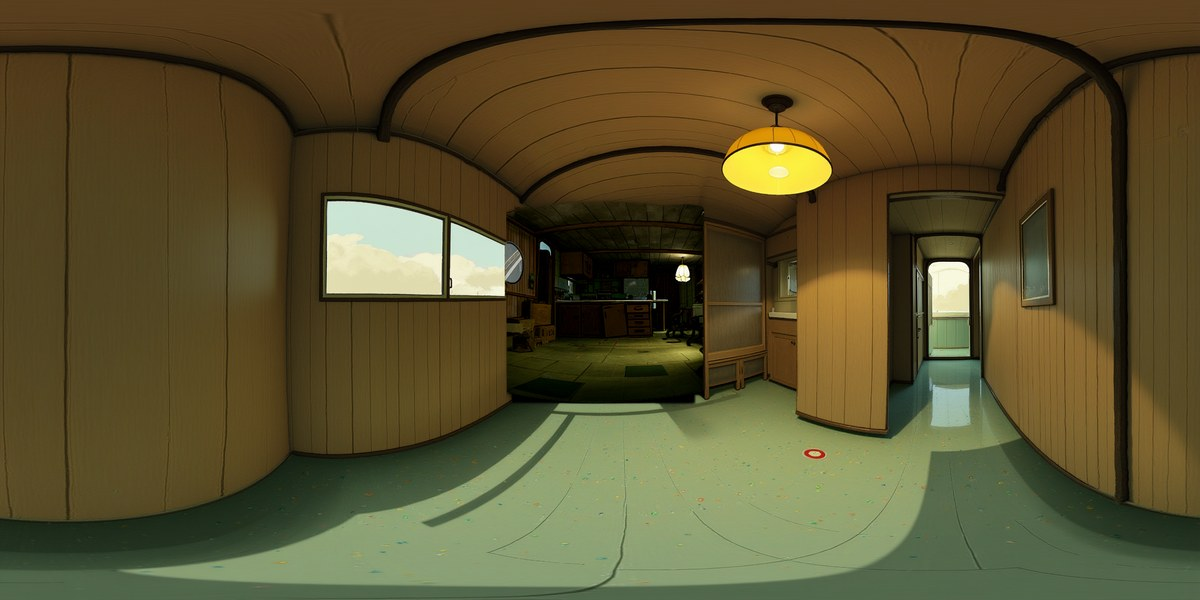
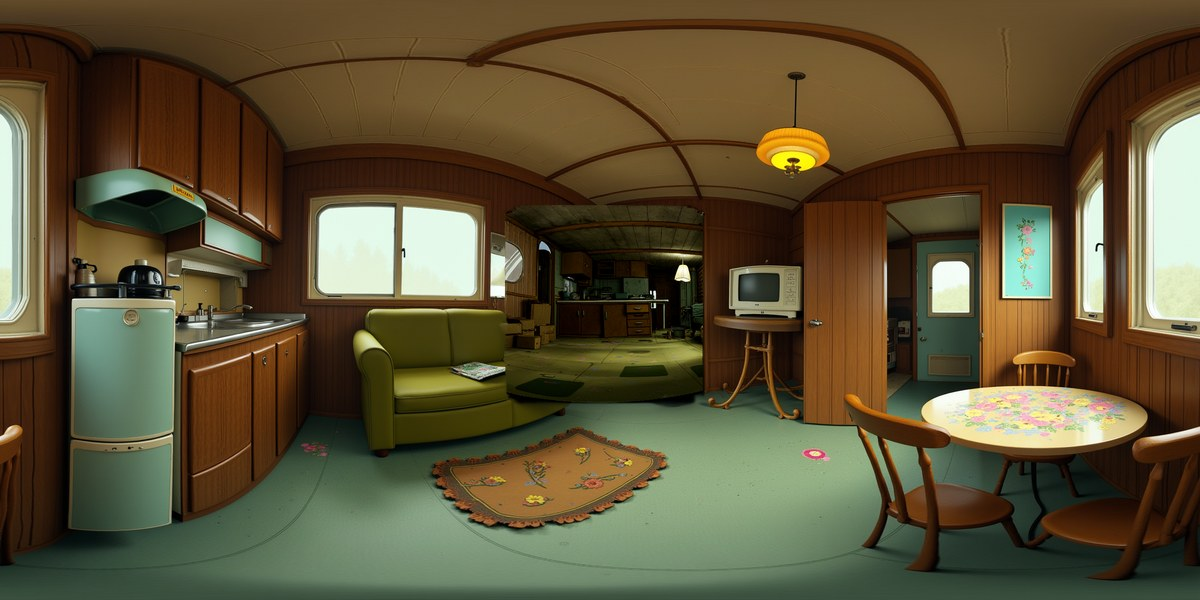
Update examples with best-quality runs; expose steps param in DiT360

diff --git a/dit360_pano.py b/dit360_pano.py
@@ -84,6 +84,7 @@ def generate_pano(
     prompt: str = "",
     tau: int = 50,      # 0–100: lower = stronger source consistency, higher = more freedom
     seed: int = 0,
+    steps: int = 50,
 ) -> bytes:
     """
     Perspective image → 360° equirectangular panorama (PNG bytes, 1024×2048).
@@ -234,7 +235,7 @@ def generate_pano(
         image=canvas_img,
         height=PANO_H,
         width=PANO_W,
-        num_inversion_steps=50,
+        num_inversion_steps=steps,
         gamma=1.0,
     )
 
@@ -260,7 +261,7 @@ def generate_pano(
         width=PANO_W,
         start_timestep=0.0,
         stop_timestep=0.99,
-        num_inference_steps=50,
+        num_inference_steps=steps,
         eta=1.0,
         generator=torch.Generator(device=device).manual_seed(seed),
         mask=mask,
@@ -285,6 +286,7 @@ def main(
     output: str = "",
     tau: int = 50,
     seed: int = 0,
+    steps: int = 50,
 ):
     """
     image   -- path to the input perspective image (JPG, PNG, …)
@@ -292,6 +294,7 @@ def main(
     output  -- output path (default: <stem>_dit360.png)
     tau     -- source-consistency strength 0–100 (default 50; lower = tighter lock)
     seed    -- random seed for reproducibility (default 0)
+    steps   -- number of diffusion steps (default 50)
     """
     image_path = Path(image)
     if not image_path.exists():
@@ -312,6 +315,7 @@ def main(
         prompt=prompt,
         tau=tau,
         seed=seed,
+        steps=steps,
     )
 
     out_path.write_bytes(pano_bytes)